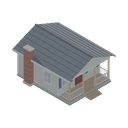
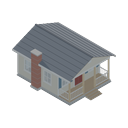
Starter house: chimney on the solid wall between the windows

Changed region(s): [[0.1562, 0.3438, 0.3438, 0.7188]]

diff --git a/tools/make_house_stages.py b/tools/make_house_stages.py
@@ -377,7 +377,8 @@ def complete(b, c, M, glass, finishings=False):
     door(parts['front'], c, M)
     # the chimney stands against an EXTERIOR wall (the left one), never inside a room (STRUCTURE_STAGES_GUIDE.md, rules): out from the wall
     # by 0.5 m, from the ground up past the eaves, its last 0.1 m let into the wall
-    cy = d / 2 - 1.8
+    ops = c.openings['left']
+    cy = (ops[0][1] + ops[1][0]) / 2          # centred on the solid wall BETWEEN the two windows, never across a window
     cx0, cx1 = -w / 2 - 0.5, -w / 2 + 0.1
     ctop = c.zw + 1.0
     b.box(cx0, cx1, cy - 0.45, cy + 0.45, 0.0, ctop, M['brick'])

diff --git a/docs/STRUCTURE_STAGES_GUIDE.md b/docs/STRUCTURE_STAGES_GUIDE.md
@@ -121,7 +121,7 @@ in `starter_house.json` (`growth.stages[].construction_recipe` and `required_too
 ## Rules for structure models
 
 - **Chimneys stand against an exterior wall,** outside the footprint's walls, from the ground up past the eaves (the cabin's is on its -X wall,
-  the house's on its left wall): never in the middle of a room, where it would leave walkable space around it.
+  the house's on its left wall): never in the middle of a room, where it would leave walkable space around it. It also stands on solid wall between the windows (derive its position from the opening table), never across a window.
 - The shell has one door that is wide and tall enough for the player (1.2 m by 2.3 m) and walls clad or framed right up to the roof.
 - Layers that meet at a corner must not share a coplanar outer face (z-fighting): trim the side layers by the cladding thickness and let
   corner boards stand 15 mm proud.
